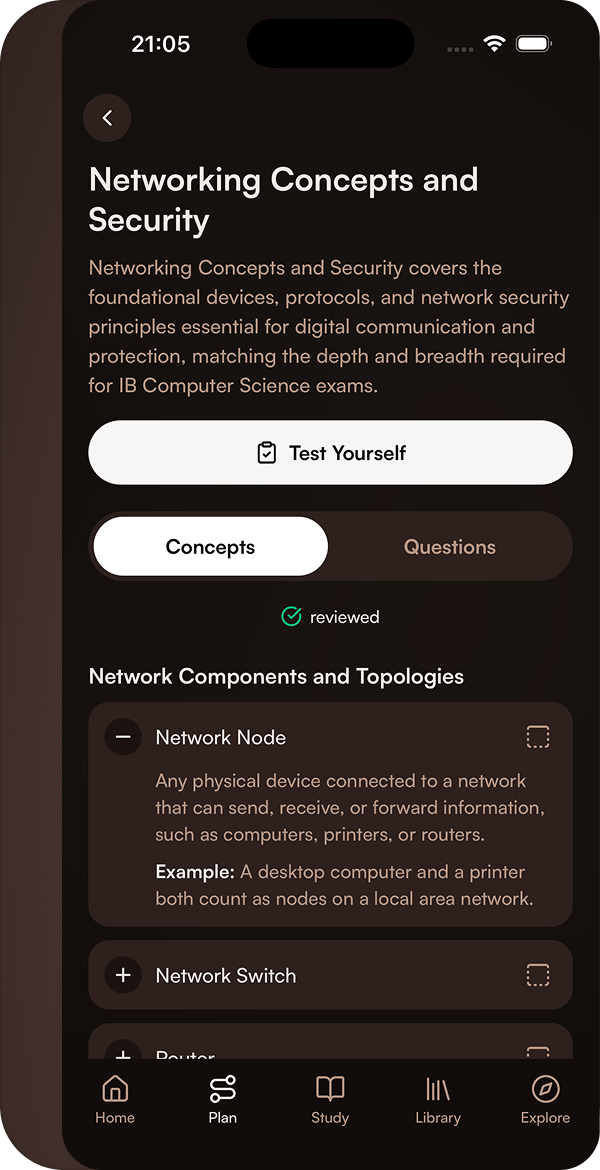
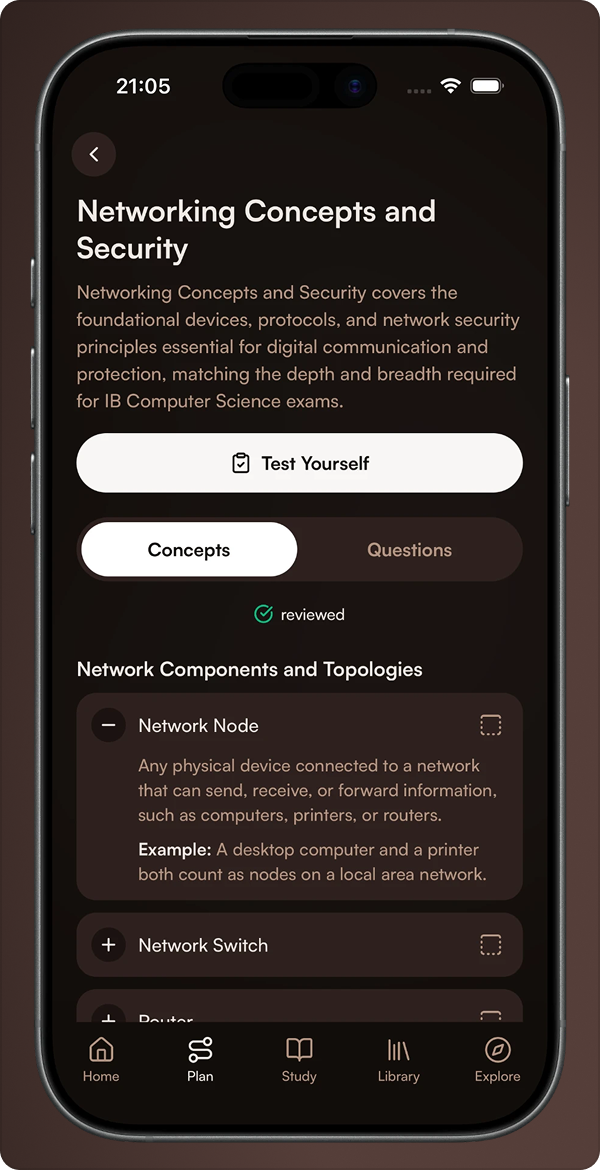
chore: fix landing page

diff --git a/components/site/landing-sections.tsx b/components/site/landing-sections.tsx
@@ -47,7 +47,13 @@ const featureImages = [
   '/v2/feat6.png',
 ];
 
-export function Features({ locale, copy }: { locale: string; copy: Site['features'] }) {
+export function Features({
+  locale,
+  copy,
+}: {
+  locale: string;
+  copy: Site['features'];
+}) {
   return (
     <section className='bg-swirl-50 px-4 py-24 sm:px-6 md:py-32'>
       <SectionHeading title={copy.title} subtitle={copy.subtitle} />
@@ -102,7 +108,13 @@ function GooglePlayMark({ className }: { className?: string }) {
   );
 }
 
-export function MobileApp({ locale, copy }: { locale: string; copy: Site['mobileApp'] }) {
+export function MobileApp({
+  locale,
+  copy,
+}: {
+  locale: string;
+  copy: Site['mobileApp'];
+}) {
   return (
     <section className='bg-swirl-100/60 px-4 py-24 sm:px-6 md:py-28'>
       <div className='mx-auto grid max-w-6xl items-center gap-14 md:grid-cols-2'>
@@ -122,7 +134,10 @@ export function MobileApp({ locale, copy }: { locale: string; copy: Site['mobile
                 key={item}
                 className='flex items-start gap-3 text-[16px] font-medium text-swirl-950'
               >
-                <Check className='mt-0.5 size-4 shrink-0 text-swirl-600' strokeWidth={2.5} />
+                <Check
+                  className='mt-0.5 size-4 shrink-0 text-swirl-600'
+                  strokeWidth={2.5}
+                />
                 {item}
               </li>
             ))}
@@ -155,15 +170,21 @@ export function MobileApp({ locale, copy }: { locale: string; copy: Site['mobile
             </div>
           </div>
           <div className='mt-5 flex flex-wrap items-center gap-x-4 gap-y-3'>
-            <CtaLink href={`/${locale}/android`} variant='light' className='h-11 gap-2 px-5'>
+            <CtaLink
+              href={`/${locale}/android`}
+              variant='light'
+              className='h-11 gap-2 px-5'
+            >
               {copy.androidWaitlistCta}
               <ArrowRight className='size-4' />
             </CtaLink>
-            <span className='text-sm font-medium text-swirl-800'>{copy.availableOn}</span>
+            <span className='text-sm font-medium text-swirl-800'>
+              {copy.availableOn}
+            </span>
           </div>
         </div>
         <Image
-          src='/v2/d2.png'
+          src='/v2/d2.webp'
           alt={copy.imageAlt}
           width={1296}
           height={1755}
@@ -212,7 +233,13 @@ function MarkIcon({
   return <X className='size-4 text-red-500' strokeWidth={2} aria-label={no} />;
 }
 
-export function Comparison({ locale, copy }: { locale: string; copy: Site['comparison'] }) {
+export function Comparison({
+  locale,
+  copy,
+}: {
+  locale: string;
+  copy: Site['comparison'];
+}) {
   const lastRow = copy.rows.length + 2;
 
   return (
@@ -264,14 +291,22 @@ export function Comparison({ locale, copy }: { locale: string; copy: Site['compa
                     className='z-20 flex items-center justify-center'
                     style={{ gridColumn: col + 2, gridRow }}
                   >
-                    <MarkIcon value={mark} onDark={col === 0} yes={copy.yes} no={copy.no} />
+                    <MarkIcon
+                      value={mark}
+                      onDark={col === 0}
+                      yes={copy.yes}
+                      no={copy.no}
+                    />
                   </div>
                 ))}
               </div>
             );
           })}
 
-          <div className='z-20 hidden p-2 sm:block' style={{ gridColumn: 2, gridRow: lastRow }}>
+          <div
+            className='z-20 hidden p-2 sm:block'
+            style={{ gridColumn: 2, gridRow: lastRow }}
+          >
             <Link
               href={`/${locale}/download`}
               className='flex h-11 items-center justify-center rounded-full bg-white text-sm font-medium text-cinder-950 transition-colors hover:bg-swirl-100'
@@ -291,7 +326,13 @@ export function Comparison({ locale, copy }: { locale: string; copy: Site['compa
   );
 }
 
-export function FinalCta({ locale, copy }: { locale: string; copy: Site['cta'] }) {
+export function FinalCta({
+  locale,
+  copy,
+}: {
+  locale: string;
+  copy: Site['cta'];
+}) {
   return (
     <section className='bg-swirl-50 px-4 pb-28 pt-8 sm:px-6'>
       <div className='relative mx-auto max-w-6xl overflow-hidden rounded-[2rem] bg-cinder-950 px-6 py-20 text-center'>
@@ -310,7 +351,11 @@ export function FinalCta({ locale, copy }: { locale: string; copy: Site['cta'] }
           <p className='mx-auto mt-5 max-w-lg text-balance text-[17px] font-medium text-white/80'>
             {copy.subtitle}
           </p>
-          <CtaLink href={`/${locale}/download`} variant='light' className='mt-9'>
+          <CtaLink
+            href={`/${locale}/download`}
+            variant='light'
+            className='mt-9'
+          >
             {copy.button}
           </CtaLink>
         </div>

diff --git a/components/site/download.tsx b/components/site/download.tsx
@@ -252,7 +252,7 @@ export function DownloadPlatforms({ release }: { release: DesktopRelease }) {
           icon={<Smartphone className='size-3.5' />}
           title={t('site.download.mobileTitle')}
           body={t('site.download.mobileBody')}
-          image='/v2/d2.png'
+          image='/v2/d2.webp'
           imageAlt={t('site.download.mobileImageAlt')}
           reverse
         >
